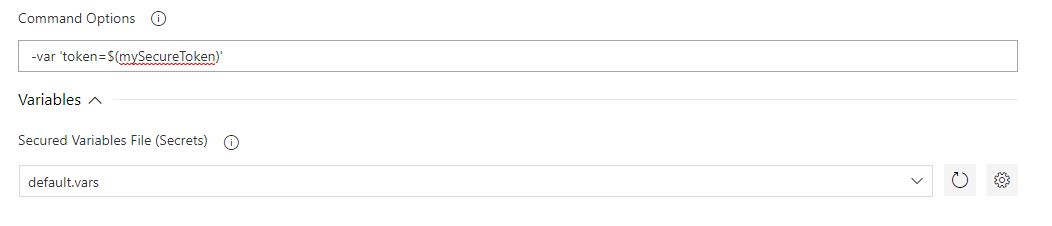
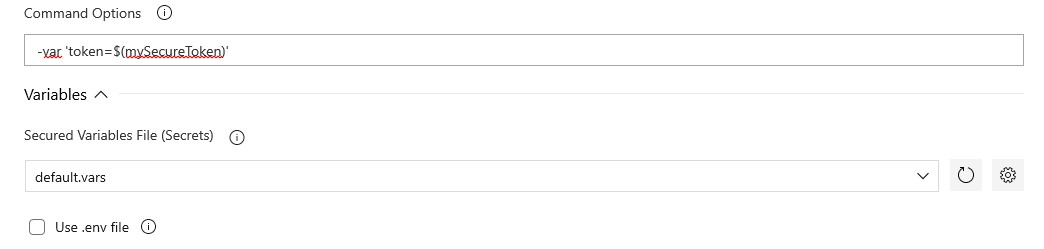
introduce .env file feature

diff --git a/TerraformCLI/src/tests/scenarios-terraform.ts b/TerraformCLI/src/tests/scenarios-terraform.ts
@@ -9,7 +9,7 @@ import { ICommand } from '../command-handler';
 declare module "./scenarios"{
     interface TaskScenario<TInputs>{
         inputTerraformCommand(this: TaskScenario<TerraformInputs>, command: string, options?: string, workingDirectory?: string): TaskScenario<TerraformInputs>;
-        inputTerraformSecureVarsFile(this: TaskScenario<TerraformInputs>, secureVarsFile: string) : TaskScenario<TerraformInputs>;
+        inputTerraformSecureVarsFile(this: TaskScenario<TerraformInputs>, secureVarsFile: string, isEnvFile?: boolean) : TaskScenario<TerraformInputs>;
         inputAzureRmBackend(this: TaskScenario<TerraformInputs>, serviceName: string, storageAccountName: string, containerName: string, key: string, resourceGroupName: string): TaskScenario<TerraformInputs>;
         inputAzureRmEnsureBackend(this: TaskScenario<TerraformInputs>, resourceGroupLocation?: string, storageAccountSku?: string): TaskScenario<TerraformInputs>;
         inputApplicationInsightsInstrumentationKey(this: TaskScenario<TerraformInputs>, instrumentationKey?: string): TaskScenario<TerraformInputs>;
@@ -29,6 +29,7 @@ export interface TerraformInputs {
     commandOptions?: string;
     varsFile: string;
     secureVarsFile: string;
+    isEnvFile?: boolean;
     backendType: string;
     ensureBackend?: boolean;
     backendServiceArm?: string;
@@ -85,14 +86,15 @@ TaskScenario.prototype.inputTerraformCommand = function(this: TaskScenario<Terra
 }
 
 export class SecureVarsFileIs extends TaskInputsAre<TerraformInputs> {
-    constructor(inputs: TaskInputBuilder<TerraformInputs>, secureVarsFile: string) {
+    constructor(inputs: TaskInputBuilder<TerraformInputs>, secureVarsFile: string, isEnvFile?: boolean) {
         super(inputs, {
-            secureVarsFile: secureVarsFile
+            secureVarsFile: secureVarsFile,
+            isEnvFile: isEnvFile
         });
     }
 }
-TaskScenario.prototype.inputTerraformSecureVarsFile = function(this: TaskScenario<TerraformInputs>, secureVarsFile: string) : TaskScenario<TerraformInputs>{
-    this.inputFactory((builder) => new SecureVarsFileIs(builder, secureVarsFile));
+TaskScenario.prototype.inputTerraformSecureVarsFile = function(this: TaskScenario<TerraformInputs>, secureVarsFile: string, isEnvFile?: boolean) : TaskScenario<TerraformInputs>{
+    this.inputFactory((builder) => new SecureVarsFileIs(builder, secureVarsFile, isEnvFile));
     return this;
 }
 
@@ -148,11 +150,11 @@ export class TerraformCommandIsSuccessful extends TaskAnswerDecorator<TerraformI
         let command = `terraform ${inputs.command}`;
         if(this.args)
             command = `${command} ${this.args}`;                  
-        if(inputs.secureVarsFile &&  command.indexOf('-var-file') < 0){
+        if(inputs.secureVarsFile &&  command.indexOf('-var-file') < 0 && !inputs.isEnvFile){
             command = `${command} -var-file=${inputs.secureVarsFile}`
         }
         // todo: remove unsecured vars file
-        if(inputs.varsFile && inputs.varsFile != inputs.workingDirectory && command.indexOf('-var-file') < 0){
+        if(inputs.varsFile && inputs.varsFile != inputs.workingDirectory && command.indexOf('-var-file') < 0 && !inputs.isEnvFile){
             command = `${command} -var-file=${inputs.varsFile}`
         } 
 

diff --git a/TerraformCLI/src/terraform-runner.ts b/TerraformCLI/src/terraform-runner.ts
@@ -2,6 +2,7 @@ import tasks = require("azure-pipelines-task-lib/task");
 import { ToolRunner, IExecSyncOptions } from "azure-pipelines-task-lib/toolrunner";
 import { TerraformCommand, ITaskAgent } from "./terraform";
 import { TerraformAggregateError } from "./terraform-aggregate-error";
+import * as dotenv from "dotenv"
 
 export interface TerraformCommandContext {
     terraform: ToolRunner;
@@ -77,15 +78,25 @@ export class TerraformWithAutoApprove extends TerraformCommandDecorator{
 export class TerraformWithSecureVarFile extends TerraformCommandDecorator{    
     private readonly taskAgent: ITaskAgent;
     private readonly secureVarFileId: string | undefined;
-    constructor(builder: TerraformCommandBuilder, taskAgent: ITaskAgent, secureVarFileId?: string | undefined) {
+    private readonly isEnvFile: boolean;
+    constructor(builder: TerraformCommandBuilder, taskAgent: ITaskAgent, secureVarFileId?: string | undefined, isEnvFile?: boolean | undefined) {
         super(builder);
         this.taskAgent = taskAgent;
         this.secureVarFileId = secureVarFileId;
+        this.isEnvFile = isEnvFile ? isEnvFile : false; 
     }
     async onRun(context: TerraformCommandContext): Promise<void> {        
         if(this.secureVarFileId){
             const secureFilePath = await this.taskAgent.downloadSecureFile(this.secureVarFileId);
-            context.terraform.arg(`-var-file=${secureFilePath}`);
+            if(this.isEnvFile) {
+                let config = dotenv.config({ path: secureFilePath }).parsed;
+                if ((!config) || (Object.keys(config).length === 0 && config.constructor === Object)) {
+                    throw "The .env file doesn't have valid entries.";
+                }
+            } else {
+                context.terraform.arg(`-var-file=${secureFilePath}`);
+            }
+
         }
     }
 }
@@ -118,8 +129,8 @@ export class TerraformRunner{
         return this;
     }
 
-    withSecureVarsFile(taskAgent: ITaskAgent, secureVarFileId?: string | undefined): TerraformRunner{
-        return this.with((builder) => new TerraformWithSecureVarFile(builder, taskAgent, secureVarFileId));
+    withSecureVarsFile(taskAgent: ITaskAgent, secureVarFileId?: string | undefined, isEnvFile?: boolean | undefined): TerraformRunner{
+        return this.with((builder) => new TerraformWithSecureVarFile(builder, taskAgent, secureVarFileId, isEnvFile));
     }
 
     async exec(successfulExitCodes?: number[] | undefined): Promise<number>{

diff --git a/TerraformCLI/src/terraform-plan.ts b/TerraformCLI/src/terraform-plan.ts
@@ -6,6 +6,7 @@ import { TerraformRunner } from "./terraform-runner";
 
 export class TerraformPlan extends TerraformCommand{
     readonly secureVarsFile: string | undefined;
+    readonly isEnvFile: boolean | undefined;
     readonly environmentServiceName: string;
 
     constructor(
@@ -13,10 +14,12 @@ export class TerraformPlan extends TerraformCommand{
         workingDirectory: string,
         environmentServiceName: string, 
         options?: string, 
-        secureVarsFile?: string) {
+        secureVarsFile?: string,
+        isEnvFile?: boolean,) {
         super(name, workingDirectory, options);
         this.environmentServiceName = environmentServiceName;
         this.secureVarsFile = secureVarsFile;
+        this.isEnvFile = isEnvFile;
     }
 }
 
@@ -39,7 +42,8 @@ export class TerraformPlanHandler implements IHandleCommandString{
             tasks.getInput("workingDirectory"),
             tasks.getInput("environmentServiceName", true),
             tasks.getInput("commandOptions"),
-            tasks.getInput("secureVarsFile")
+            tasks.getInput("secureVarsFile"),
+            tasks.getBoolInput("isEnvFile", false)
         );
 
         let loggedProps = {
@@ -53,7 +57,7 @@ export class TerraformPlanHandler implements IHandleCommandString{
     private async onExecute(command: TerraformPlan): Promise<number> {
         let exitCode = await new TerraformRunner(command)
             .withAzureRmProvider(command.environmentServiceName)
-            .withSecureVarsFile(this.taskAgent, command.secureVarsFile)
+            .withSecureVarsFile(this.taskAgent, command.secureVarsFile, command.isEnvFile)
             .exec(this.getPlanSuccessfulExitCodes(command.options));
 
         this.setPlanHasChangesVariable(command.options, exitCode);

diff --git a/TerraformCLI/src/terraform-apply.ts b/TerraformCLI/src/terraform-apply.ts
@@ -6,6 +6,7 @@ import { TerraformRunner } from "./terraform-runner";
 
 export class TerraformApply extends TerraformCommand {
     readonly secureVarsFile: string | undefined;
+    readonly isEnvfile: boolean;
     readonly environmentServiceName: string;
 
     constructor(
@@ -13,10 +14,12 @@ export class TerraformApply extends TerraformCommand {
         workingDirectory: string,
         environmentServiceName: string, 
         secureVarsFile: string | undefined,
+        isEnvFile: boolean,
         options?: string) {
         super(name, workingDirectory, options);
         this.environmentServiceName = environmentServiceName;
         this.secureVarsFile = secureVarsFile;
+        this.isEnvfile = isEnvFile;
     }
 }
 
@@ -39,6 +42,7 @@ export class TerraformApplyHandler implements IHandleCommandString{
             tasks.getInput("workingDirectory"),
             tasks.getInput("environmentServiceName", true),
             tasks.getInput("secureVarsFile"),
+            tasks.getBoolInput("isEnvFile", false),
             tasks.getInput("commandOptions")
         );
 
@@ -52,7 +56,7 @@ export class TerraformApplyHandler implements IHandleCommandString{
 
     private async onExecute(command: TerraformApply): Promise<number> {
         return await new TerraformRunner(command)
-            .withSecureVarsFile(this.taskAgent, command.secureVarsFile)
+            .withSecureVarsFile(this.taskAgent, command.secureVarsFile, command.isEnvfile)
             .withAutoApprove()
             .withAzureRmProvider(command.environmentServiceName)
             .exec();

diff --git a/TerraformCLI/src/terraform-destroy.ts b/TerraformCLI/src/terraform-destroy.ts
@@ -6,6 +6,7 @@ import { TerraformRunner } from "./terraform-runner";
 
 export class TerraformDestroy extends TerraformCommand{
     readonly secureVarsFile: string | undefined;
+    readonly isEnvFile: boolean;
     readonly environmentServiceName: string;
 
     constructor(
@@ -13,10 +14,12 @@ export class TerraformDestroy extends TerraformCommand{
         workingDirectory: string,
         environmentServiceName: string, 
         secureVarsFile: string | undefined,
+        isEnvFile: boolean,
         options?: string) {
         super(name, workingDirectory, options);
         this.environmentServiceName = environmentServiceName;
         this.secureVarsFile = secureVarsFile;
+        this.isEnvFile = isEnvFile;
     }
 }
 
@@ -39,6 +42,7 @@ export class TerraformDestroyHandler implements IHandleCommandString{
             tasks.getInput("workingDirectory"),
             tasks.getInput("environmentServiceName", true),
             tasks.getInput("secureVarsFile"),
+            tasks.getBoolInput("isEnvFile", false),
             tasks.getInput("commandOptions")
         );
 
@@ -54,7 +58,7 @@ export class TerraformDestroyHandler implements IHandleCommandString{
         return await new TerraformRunner(command)                                    
             .withAutoApprove()
             .withAzureRmProvider(command.environmentServiceName)            
-            .withSecureVarsFile(this.taskAgent, command.secureVarsFile)
+            .withSecureVarsFile(this.taskAgent, command.secureVarsFile, command.isEnvFile)
             .exec();
     }
 }

diff --git a/TerraformCLI/src/terraform-validate.ts b/TerraformCLI/src/terraform-validate.ts
@@ -6,14 +6,16 @@ import { TerraformRunner } from "./terraform-runner";
 
 export class TerraformValidate extends TerraformCommand{
     readonly secureVarsFile: string | undefined;
-
+    readonly isEnvFile: boolean | undefined;
     constructor(
         name: string, 
         workingDirectory: string,
         options?: string, 
-        secureVarsFile?: string) {
+        secureVarsFile?: string,
+        isEnvFile?: boolean) {
         super(name, workingDirectory, options);
         this.secureVarsFile = secureVarsFile;
+        this.isEnvFile = isEnvFile
     }
 }
 
@@ -35,7 +37,8 @@ export class TerraformValidateHandler implements IHandleCommandString{
             command,
             tasks.getInput("workingDirectory"),
             tasks.getInput("commandOptions"),
-            tasks.getInput("secureVarsFile")
+            tasks.getInput("secureVarsFile"),
+            tasks.getBoolInput("isEnvFile", false)
         );
 
         let loggedProps = {
@@ -48,7 +51,7 @@ export class TerraformValidateHandler implements IHandleCommandString{
 
     private async onExecute(command: TerraformValidate): Promise<number> {
         return new TerraformRunner(command)
-            .withSecureVarsFile(this.taskAgent, command.secureVarsFile)
+            .withSecureVarsFile(this.taskAgent, command.secureVarsFile, command.isEnvFile)
             .exec();
     }
 }

diff --git a/overview.md b/overview.md
@@ -52,7 +52,7 @@ The task supports automatically creating the resource group, storage account, an
 
 ## Secure Variable Secrets
 
-There are two methods to provide secrets within the vars provided to terraform commands. First, if providing individual `-var` options to the command line, the secret pipeline variables can be used. Use the Command Options field to input your secret vars as `-var 'secret=$(mySecretPipelineVar)`. Secondly, a var file secured in Secure Files Library of Azure DevOps pipeline can be specified via drop-down menu. Storing sensitive var files in the Secure Files Library not only provides encryption at rest, it also allows the files to have different access control applied than that of the Source Repository and Build/Release Pipelines.
+There are three methods to provide secrets within the vars provided to terraform commands. First, if providing individual `-var` options to the command line, the secret pipeline variables can be used. Use the Command Options field to input your secret vars as `-var 'secret=$(mySecretPipelineVar)`. Secondly, a var file secured in Secure Files Library of Azure DevOps pipeline can be specified via drop-down menu. Storing sensitive var files in the Secure Files Library not only provides encryption at rest, it also allows the files to have different access control applied than that of the Source Repository and Build/Release Pipelines. Finally, if providing `Use .env file` option, the Secured Variables file refered as `.env` file. This task loads environment variables from the `.env` file.  
 
 ![Terraform CLI Secure Vars and Var Files](https://raw.githubusercontent.com/charleszipp/azure-pipelines-tasks-terraform/master/screenshots/overview-tfcli-secure-vars.JPG)
 

diff --git a/README.md b/README.md
@@ -12,6 +12,10 @@ See readme for each of the tasks for development setup for each.
 
 ## Release Notes
 
+### 0.4.15
+
+Add support for TF_VAR_ envrionment variables and .env files.
+
 ### 0.4.14
 
 Fixed issue where backend storage account creation would return error due to deprecated storage account kind. This was due to a change in azure storage.
